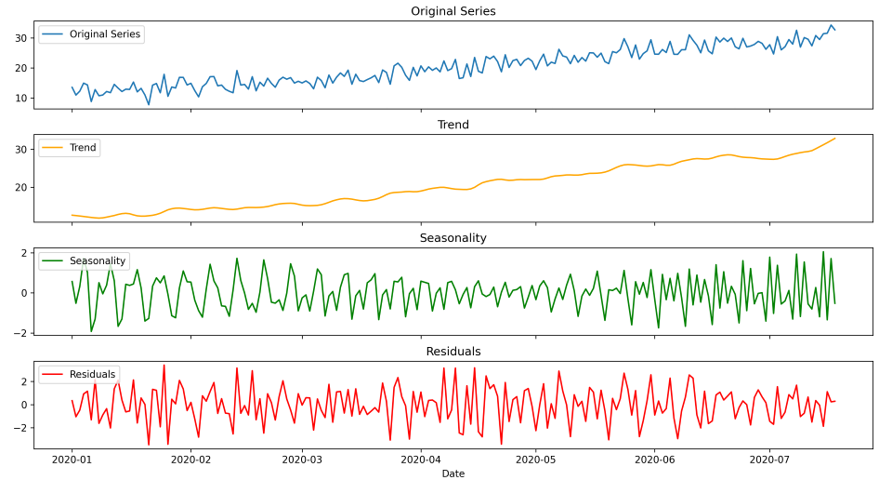
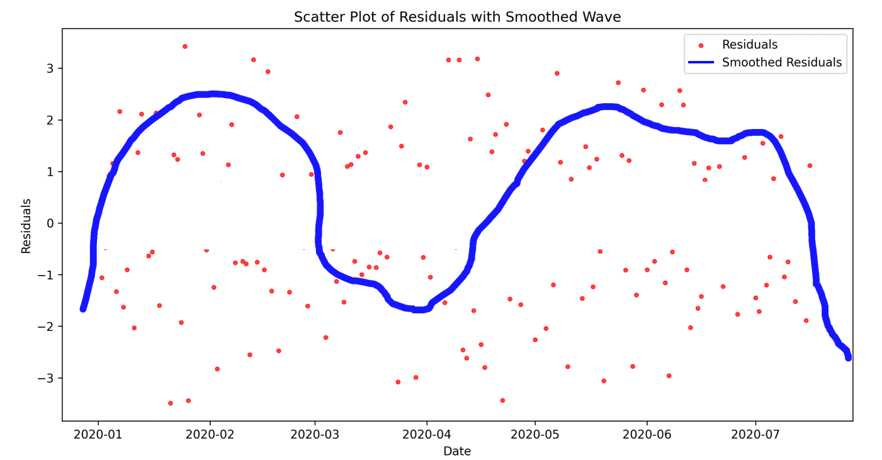
review

diff --git a/articles/supply-chain/demand-planning/design-forecast-models.md b/articles/supply-chain/demand-planning/design-forecast-models.md
@@ -93,72 +93,86 @@ When you add a *Signal* step, the system automatically creates a parallel branch
 
 *Handle outliers* steps identify and compensate for outlier data points in the input. These data points are considered anomalies that should be ignored or smoothed out to prevent them from throwing off the forecast calculation.
 
+#### Handle outlier step settings
+
 *Handle outliers* steps have the following settings:
 
 - **Step name** – The specific name of the step. This name is also shown in the flowchart.
 - **Description** – A short description of the step.
 - **Created by** – The user who created the step.
-- **Handle outliers** – Select one of the following options:
+- **Handle outliers** – Select one of the following options. Learn more about each of these options in [How handle outliers options work](#handle-outlier-options).
 
-    - *Interquartile range (IQR)*: The IQR is the range between the first quartile (Q1) and the third quartile (Q3):
-
-      #### Formula: **IQR=Q3−Q1**
-
-      - Q1 (25th percentile): The value below which 25% of the data lies.
-      - Q3 (75th percentile): The value below which 75% of the data lies.
-      - The IQR measures the spread of the middle 50% of the data.
-      - Any data outside of the Interquartile range will be be identified as outlier which will be smoothed later on.
-
+    - *Interquartile range (IQR)*
     - *Seasonal and trend decomposition using Loess (STL)*
-      
-      #### Algorithm
-      1. STL decomposes the time series into 3 components:
-            1. **Trend**.
-            1. **Seasonality**.
-            1. **Residuals**: A residual is basically the raw time series after removing trend and seasonality from it.
 
-        :::image type="content" source="media/stl-decomposition.png" alt-text="Diagram that shows 4 plots, an original time series, an upwards trend decomposed from the time series, a plot with spikes representing the seasonality of the time series and the residuals after removing trend and seasonality.":::
-      
-      2. STL tries to smooth the outliers using LOESS (Locally Estimated Scatterplot Smoothing).
-      
-      3. LOESS is a generalization of the moving average and polynomial regression, where it tries to fit a graph through scattered data points dots thus smooths the residuals during this process.
+- **Interquartile range multiplier** – This field is available only when the **Handle outliers** field is set to *IQR*. It affects the number data points removed as outliers. Learn more about this setting in [How handle outliers options work](#handle-outlier-options).
 
-      :::image type="content" source="media/stl-fitting-plot.png" alt-text="Diagram that shows scattered plot of residuals and a graph that smoothes the residuals by attempting to fit it in the dots.":::
-      
-      4. After calculating mean and standard deviation, it uses them to get rid of the outliers and mitigate anomalies.
-      
-      5. Lastly, STL adds again the seasonality and the trend to the newly smoothed residual and you can proceed to the next step.
-      
-      
+- **Correction methods** – This field is available only when the **Handle outliers** field is set to *IQR*. It affects how outliers are replaced in the data after being removed. The available options are *Median smoothing* and *Mean smoothing*.
+- **Seasonality hint** – This field is available only when the **Handle outliers** field is set to *STL*. It influences the size of the window used for the LOESS smoother when estimating the seasonal component. Learn more about this setting in [Seasonality in forecasts](#seasonality).
 
-- **Interquartile range multiplier** – This field is available only when the **Handle outliers** field is set to *IQR*.
-   - Multiplier of the IQR is determined by the user.
-     - Lower bound = Q1 - Multiplier  X IQR
-     - Upper bound = Q3 + Multiplier X IQR
-   
-   - A high multiplier increases the range within which data points are considered non-outliers.
-   This results in having a more lenient definition of your boundaries and include more points
-   Thus, the IQR method will be less sensitive to variations in the time series.
-   - A low multiplier decreases the range within which data points are considered non-outliers
-   That means you get stricter boundaries, and more data points are will get removed.
-   
-- **Correction methods** – This field is available only when the **Handle outliers** field is set to *IQR*. The 2 available options are Median/Mean, this will replace the outliers with the median/mean of the data.
-- **Seasonality hint** – This field is available only when the **Handle outliers** field is set to *STL*. It influences the size of the window used for the LOESS smoother when estimating the seasonal component.
-  - STL uses LOESS to smooth the seasonal component over time. The seasonal period helps divide the data into segments, ensuring the algorithm correctly extracts repeating patterns.
-  For accurate decomposition:
-  - A well-defined seasonal period captures the true periodicity of the data and  STL will successfully isolate the seasonality, making the trend and residuals more interpretable
-  - An incorrect period results in poor seasonal extraction, leading to inaccurate trend and residual components.
-    - Too short: May miss the full seasonal cycle, causing overlapping or incomplete patterns.
-    - Too long: Adds unnecessary complexity, potentially treating random noise as seasonality.
-### When to use what?
+#### How to choose the method for handling outliers
+
+The following table provides examples that will help you choose which method to use to handle outliers in your time series data based on your scenario.
+
 | Scenario                             | IQR             | STL             |
 |--------------------------------------|-----------------|-----------------|
-| Data with Seasonal or Trend Patterns | Not Recommended | Recommended     |
-| Robust Handling of Outliers          | Recommended     | Not Recommended |
-| Sensitivity to Extreme Values        | Recommended     | Recommended     |
+| Data with seasonal or trend patterns | Not recommended | Recommended     |
+| Robust handling of outliers          | Recommended     | Not recommended |
+| Sensitivity to extreme values        | Recommended     | Recommended     |
+
+<a name="handle-outlier-options"></a>
+
+#### How handle outliers options work
+
+##### Interquartile range (IQR)
+
+The IQR is the range between the first quartile (Q1) and the third quartile (Q3). It measures the spread of the middle 50% of the data. Any data outside of the interquartile range is identified as outlier that should be smoothed later on. It applies the following formula to identify outliers:
+
+*IQR = Q3 − Q1*
+
+Where:
+
+- *Q1* – Represents the 25th percentile (the value below which 25% of the data lies).
+- *Q3* – Represents the 75th percentile (the value below which 75% of the data lies).
+
+When you use the IQR method to handle outliers, you must set a **Interquartile range multiplier**. The multiplier affects how many data points are removed as outliers. It's calculated as follows:
+
+- Lower bound = Q1 &minus; (Multiplier &times; IQR)
+- Upper bound = Q3 &plus; (Multiplier &times; IQR)
+
+A *high* multiplier increases the range within which data points are considered non-outliers. This results in softer boundaries and includes more points, which makes the result less sensitive to variations in the time series.
+
+A *low* multiplier decreases the range within which data points are considered non-outliers. This results in stricter boundaries and removes more data points, which makes the result more sensitive to variations in the time series.
+
+When you use the IQR method to handle outliers, you must also set a **Correction method**, which affects the way the outliers should be replaced in the data after being removed. The available options are *Median smoothing* and *Mean smoothing*.
+
+##### Seasonal and trend decomposition using LOESS (STL)
+
+STL starts by decomposing the time series into 3 components:
+
+- Trend (overall trend in the data)
+- Seasonality (regular and predictable patterns driven by factors such as weather, holidays, or economic cycles)
+- Residuals (the time series after removing trend and seasonality)
+
+The following diagram shows examples of an original time series, the trend decomposed from the time series, the seasonality spikes found in the time series, and the residuals after removing the trend and seasonality.
+
+:::image type="content" source="media/stl-decomposition.png" alt-text="Diagram that shows 4 plots, an original time series, an upwards trend decomposed from the time series, a plot with spikes representing the seasonality of the time series and the residuals after removing trend and seasonality.":::
+
+STL then tries to smooth the outliers using LOESS (locally estimated scatterplot smoothing). LOESS is a generalization of the moving average and polynomial regression, where it tries to fit a graph through scattered data points, thereby smoothing the residuals, as shown in the following diagram.
+
+:::image type="content" source="media/stl-fitting-plot.png" alt-text="Diagram that shows scattered plot of residuals and a graph that smooths the residuals by attempting to fit it between the dots.":::
+
+After calculating the mean and standard deviation, STL uses them to get rid of the outliers and mitigate anomalies.
+
+Finally, STL reintroduces the seasonality and trend to the newly smoothed residual.
+
+When you use the STL method to handle outliers, you must also set a **Seasonality hint**, which influences the size of the time period (in time buckets) used when estimating the seasonal component. It helps divide the data into segments, ensuring the algorithm correctly extracts repeating patterns. For example, if you see a weekly seasonality pattern (such as where most customers shop on Saturdays) and are using buckets in days, then enter *7* here. Learn more in [Seasonality in forecasts](#seasonality).
+
 ### Forecast steps
 
 *Forecast* steps apply a selected forecast algorithm to the input time series to create a forecast time series.
+
+#### Forecast step settings
 
 *Forecast* steps have the following settings:
 
@@ -166,64 +180,12 @@ When you add a *Signal* step, the system automatically creates a parallel branch
 - **Description** – A short description of the step.
 - **Created by** – The user who created the step.
 - **Model type** – Select the forecast algorithm to use. For more information about each of the available algorithms, see [Demand forecasting algorithms](forecast-algorithm-types.md). Select one of the following algorithms:
-
     - *Best fit model*
     - *ARIMA* – Autoregressive integrated moving average
     - *ETS* – Error, trend, seasonality
     - *Prophet* – Facebook Prophet
 
-- **Seasonality hint (in periods of time buckets)** – 
-Seasonality refers to regular and predictable patterns in a time series that occur at fixed intervals due to recurring events or influences. These patterns are often driven by factors such as weather, holidays, or economic cycles.
-
-- **Example**: 
-  - Increased retail sales every December due to holiday shopping.
-  - Higher electricity demand during summer months due to air conditioning.
-
-### **How is Seasonality Different from Cycles?**
-While both seasonality and cycles involve repeating patterns, there are key differences:
-
-| **Aspect**            | **Seasonality**                                              | **Cycles**                                                     |
-|------------------------|------------------------------------------------------------|----------------------------------------------------------------|
-| **Frequency**          | Fixed, regular intervals (e.g., daily, weekly, yearly).     | Variable, often irregular and influenced by external factors. |
-| **Duration**           | Short-term and predictable (e.g., seasonal sales).         | Long-term and unpredictable (e.g., business cycles).          |
-| **Cause**              | Calendar-based events or natural patterns.                 | Economic, social, or structural forces.                       |
-| **Examples**           | Summer travel peaks, holiday shopping trends.              | Economic recession cycles, stock market booms and busts.      |
-
-Specifying the seasonal period hint aids the forecasting algorithm/stl outlier to capture the periodicy in order to capture the patterns and take into account seasonality when forecasting the data or removing outlier.
-
-### **Dangers of Incorrectly Specifying Seasonality**
-Specifying the seasonality incorrectly (too long or too short) can significantly affect the analysis or forecasting results.
-
-#### **1. Too Short Seasonality**
-When the seasonal period is shorter than the actual cycle:
-- **Missed patterns**: Important parts of the seasonal pattern are excluded, leading to incomplete seasonality extraction.
-- **Trend contamination**: Some seasonal variations may be mistaken for the trend component, distorting the trend estimation.
-- **Residual issues**: Residuals may show unexplained periodicity, indicating the model failed to capture seasonality properly.
-
-**Example**: 
-- Using a seasonal period of **6 months** for yearly retail sales data results in only part of the yearly cycle being captured, missing critical holiday season peaks.
-
-#### **2. Too Long Seasonality**
-When the seasonal period is longer than the actual cycle:
-- **Overfitting**: Noise or random fluctuations may be falsely interpreted as seasonality.
-- **Distorted decomposition**: Artificially long seasonal cycles can obscure the true trend or residual components.
-- **Increased complexity**: The model may become unnecessarily complex, making it harder to interpret and validate.
-
-**Example**: 
-- Using a seasonal period of **24 months** for data with an annual cycle results in overfitting, where small irregularities in the data are treated as seasonal patterns.
-
-
-#### Autodetect seasonality patterns (preview)
-
-[!INCLUDE [preview-banner-section](~/../shared-content/shared/preview-includes/preview-banner-section.md)]
-<!-- KFM: Preview until further notice -->
-
-If you're using the ARIMA algorithm, then the **Seasonality hint (in periods of time buckets)** is replaced by the **Select seasonality detection setting (preview)** setting, which provides the following options:
-
-- **Auto detection** – Select this option to enable an algorithm that automatically detects seasonality patterns for each combination of location and product and applies the result to its forecast calculations. Seasonality patterns typically vary for different products and different locations, so auto detection often works better than using forecast models that try to apply the same pattern everywhere.
-- **Detection using hint** – Select this option to use the value that you enter in the **Seasonality hint (in periods of time buckets)** field to help identify seasonality patterns. This option works best when you know the seasonality pattern in advance. For example, if you see a weekly seasonality pattern and are using buckets in days, then enter *7* here. If your data has no seasonality, then enter *1* here. <!-- KFM: Check with Mostafa. -->
-
-[!INCLUDE [preview-note](~/../shared-content/shared/preview-includes/preview-note-d365.md)]
+- **Seasonality hint (in periods of time buckets)** – Seasonality refers to a pattern of demand that fluctuates according to a regular, recurring schedule. If your data has such a pattern, then enter the frequency here (in time buckets). For example, if you see a weekly seasonality pattern (such as where most customers shop on Saturdays) and are using buckets in days, then enter *7* here. Learn more in [Seasonality in forecasts](#seasonality).
 
 ### Forecast with signals (preview)
 
@@ -240,7 +202,7 @@ You can use this type of step only if your forecast model has at least two paral
 - **Description** – A short description of the step.
 - **Created by** – The user who created the step.
 - **Model type** – Select the forecast algorithm to use. In the current version, only the *XGBoost* algorithm is available.
-- **Seasonality hint (in periods of time buckets)** – Seasonality refers to a pattern of demand that fluctuates according to a regular, recurring schedule (such as a weekly pattern where most customers shop on Saturdays). If your data has such a pattern, then enter the frequency here (in time buckets). For example, if you see a weekly seasonality pattern and are using buckets in days, then enter *7* here. If your data has no seasonality, then enter *1* here. <!-- KFM: Check with Mostafa. -->
+- **Seasonality hint (in periods of time buckets)** – Seasonality refers to a pattern of demand that fluctuates according to a regular, recurring schedule. If your data has such a pattern, then enter the frequency here (in time buckets). For example, if you see a weekly seasonality pattern (such as where most customers shop on Saturdays) and are using buckets in days, then enter *7* here. Learn more in [Seasonality in forecasts](#seasonality).
 
 [!INCLUDE [preview-note](~/../shared-content/shared/preview-includes/preview-note-d365.md)]
 
@@ -272,3 +234,57 @@ For more information about phase in/out functionality, including details about h
 *Save* steps save the result of the forecast model as a new or updated series. All forecast models must end with a single *Save* step.
 
 The forecast time series will be saved according to the settings that you configure each time that you run a forecast job as described in [Work with forecast profiles](forecast-profiles.md).
+
+<a name="seasonality"></a>
+
+## Seasonality in forecasts
+
+Seasonality refers to regular and predictable patterns in a time series that occur at fixed intervals due to recurring events or influences. These patterns are often driven by factors such as weather, holidays, or economic cycles. Examples include increased retail sales every December due to holiday shopping or higher electricity demand during summer months due to air conditioning.
+
+Demand planning identifies and compensates for seasonality patters both when handling outliers (in a handle outliers step set to use STL) and when generating a forecast (in any forecast step).
+
+### How seasonality is different from cycles
+
+While both seasonality and cycles involve repeating patterns, there are key differences, as summarized in the following table.
+
+| Aspect | Seasonality | Cycles |
+|--|--|--|
+| **Frequency** | Fixed, regular intervals (such as daily, weekly, or yearly). | Variable, often irregular, and influenced by external factors. |
+| **Duration** | Short-term and predictable (such as seasonal sales). | Long-term and unpredictable (such as business cycles). |
+| **Cause** | Calendar-based events or natural patterns. | Economic, social, or structural forces. |
+| **Examples** | Summer travel peaks, holiday shopping trends. | Economic recession cycles, stock market booms and busts. |
+
+Specifying the seasonal period hint aids the forecasting algorithm/stl outlier to capture the periodicy in order to capture the patterns and take into account seasonality when forecasting the data or removing outlier.
+
+### Seasonality hints
+
+Some forecast and outlier-detection algorithms provide a **Seasonality hint** setting, which influences the size of the time period (in time buckets) used when identifying seasonality patterns. It helps divide the data into segments, ensuring the algorithm correctly extracts repeating patterns. For example, if you see a weekly seasonality pattern (such as where most customers shop on Saturdays) and are using buckets in days, then enter *7* as the **Seasonality hint**.
+
+- A well-defined seasonal period captures the true periodicity of the data. It allows the algorithm to successfully isolate the seasonality, which makes the trend and residuals more interpretable
+- An incorrect seasonal period results in poor seasonal extraction, leading to inaccurate trend and residual components.
+
+If you use a seasonal period that's too short (shorter than the actual cycle), then you risk encountering the following issues:
+
+- **Missed patterns** – Important parts of the seasonal pattern could be excluded, leading to incomplete seasonality extraction.
+- **Trend contamination** – Some seasonal variations could be mistaken for the trend component, distorting the trend estimation.
+- **Residual issues** – Residuals might show unexplained periodicity, indicating that the algorithm failed to capture seasonality properly.
+- **Example** – Using a seasonal period of *6 months* for yearly retail sales data can result in only part of the yearly cycle being captured, missing critical holiday season peaks.
+
+If you use a seasonal period that's too long (longer than the actual cycle), then you risk encountering the following issues:
+
+- **Overfitting** – Noise or random fluctuations could be falsely interpreted as seasonality.
+- **Distorted decomposition** – Artificially long seasonal cycles might obscure the true trend or residual components.
+- **Increased complexity** – The model may become unnecessarily complex, making it harder to interpret and validate.
+- **Example** – Using a seasonal period of *24 months* for data with an annual cycle results in overfitting, where small irregularities in the data are treated as seasonal patterns.
+
+### Autodetect seasonality patterns (preview)
+
+[!INCLUDE [preview-banner-section](~/../shared-content/shared/preview-includes/preview-banner-section.md)]
+<!-- KFM: Preview until further notice -->
+
+If you're using the ARIMA forecast algorithm, then the **Seasonality hint (in periods of time buckets)** setting is replaced by the **Select seasonality detection setting (preview)** setting, which provides the following options:
+
+- **Auto detection** – Select this option to enable an algorithm that automatically detects seasonality patterns for each combination of location and product and applies the result to its forecast calculations. Seasonality patterns typically vary for different products and different locations, so auto detection often works better than applying the same pattern everywhere.
+- **Detection using hint** – Select this option to use the value that you enter in the **Seasonality hint (in periods of time buckets)** field to help identify seasonality patterns. This option works best when you know the seasonality pattern in advance (such as where most customers shop on Saturdays). For example, if you know you have a strong weekly seasonality pattern, and are using buckets in days, then choose this option and enter *7* here. You can learn more about this setting in the previous section.
+
+[!INCLUDE [preview-note](~/../shared-content/shared/preview-includes/preview-note-d365.md)]
